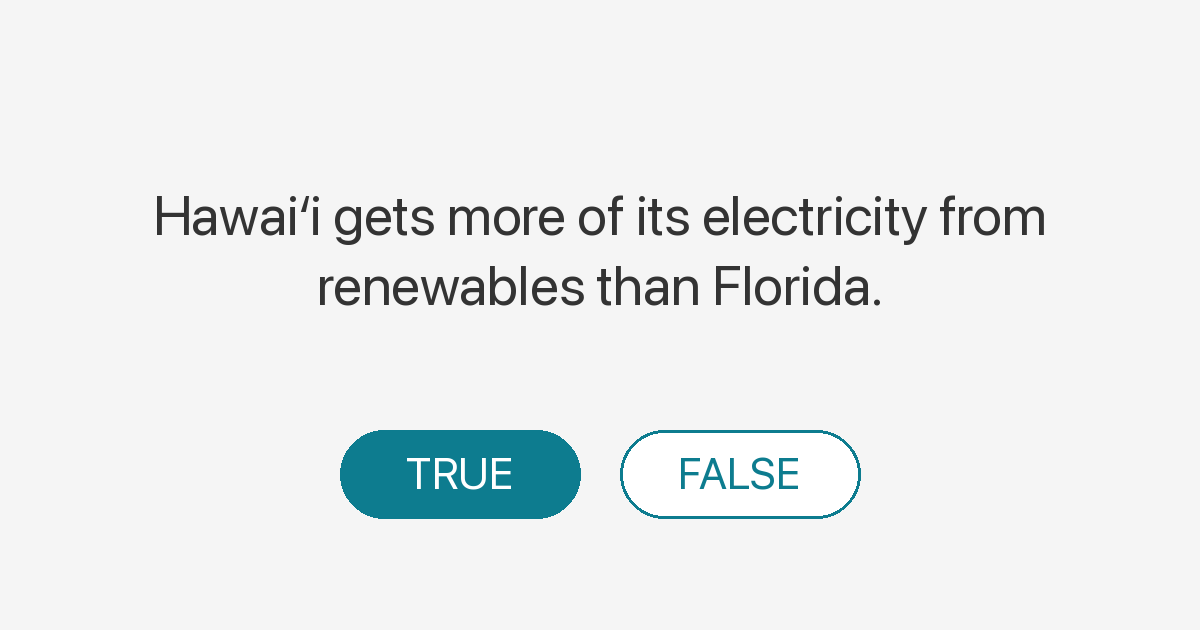
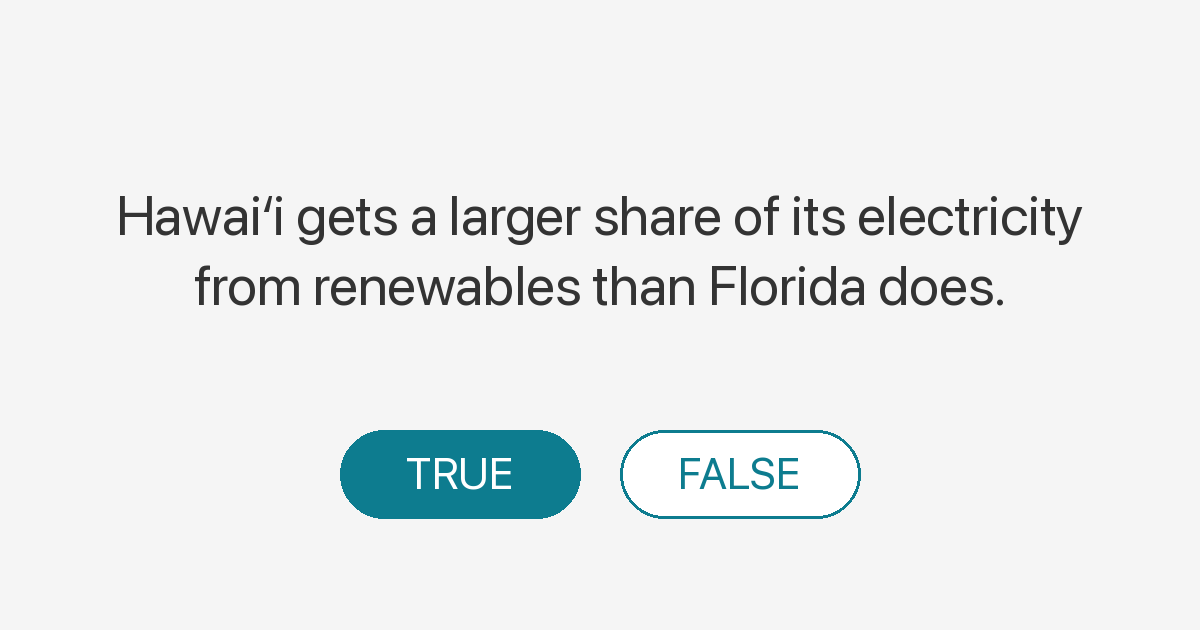
qotd: q057 — "more of its electricity" -> "a larger share ... than Florida does"
Florida is a far larger generator, so "more renewables than Florida"
risks an absolute-count misread (FL produces more renewable kWh in raw
terms; the claim is only true as a share). The share framing pins the
claim to the proportion, which is the accurate reading.

Changed region(s): [[0.0925, 0.3016, 0.925, 0.3921], [0.1542, 0.4222, 0.8325, 0.4825]]

diff --git a/q/q057/index.html b/q/q057/index.html
@@ -13,7 +13,7 @@
   <meta name="twitter:card" content="summary_large_image">
   <meta name="twitter:title" content="You know Hawaiʻi?">
   <meta name="twitter:image" content="https://hawaiidashboard.org/assets/og/q/hawaii-gets-more-renewable-electricity-than-florida.png">
-  <meta name="description" content="Hawaiʻi gets more of its electricity from renewables than Florida.">
+  <meta name="description" content="Hawaiʻi gets a larger share of its electricity from renewables than Florida does.">
   <link rel="canonical" href="https://hawaiidashboard.org/q/q057/">
   <script>window.location.replace("/?from_q=q057");</script>
   <meta http-equiv="refresh" content="0;url=https://hawaiidashboard.org/?from_q=q057">
@@ -22,7 +22,7 @@
   <p>Redirecting to <a href="https://hawaiidashboard.org/?from_q=q057">You know Hawaiʻi?</a>&hellip;</p>
   <article style="max-width:640px;margin:2rem auto;padding:0 1rem;font-family:-apple-system,BlinkMacSystemFont,'Segoe UI',sans-serif;color:#333;line-height:1.55;">
     <p style="color:#888;font-size:0.875rem;text-transform:uppercase;letter-spacing:0.05em;margin:0;">You know Hawaiʻi?</p>
-    <p style="margin:0.25rem 0 1rem;font-size:1.25rem;font-weight:600;">Hawaiʻi gets more of its electricity from renewables than Florida.</p>
+    <p style="margin:0.25rem 0 1rem;font-size:1.25rem;font-weight:600;">Hawaiʻi gets a larger share of its electricity from renewables than Florida does.</p>
     <p><strong>True.</strong> In 2025, Hawaiʻi was 22.1% versus Florida at 10.6%.</p>
     <p style="margin-top:1.5rem;"><a href="/t/renewables_share_gen/fl/">See the data &rarr;</a></p>
   </article>

diff --git a/js/questions.js b/js/questions.js
@@ -503,7 +503,7 @@ const QOTD_QUESTIONS = [
   {
       "id": "q057",
       "slug": "hawaii-gets-more-renewable-electricity-than-florida",
-      "claim": "Hawaiʻi gets more of its electricity from renewables than Florida.",
+      "claim": "Hawaiʻi gets a larger share of its electricity from renewables than Florida does.",
       "correct": true,
       "answer": "In 2025, Hawaiʻi was 22.1% versus Florida at 10.6%.",
       "chartUrl": "/t/renewables_share_gen/fl/",
